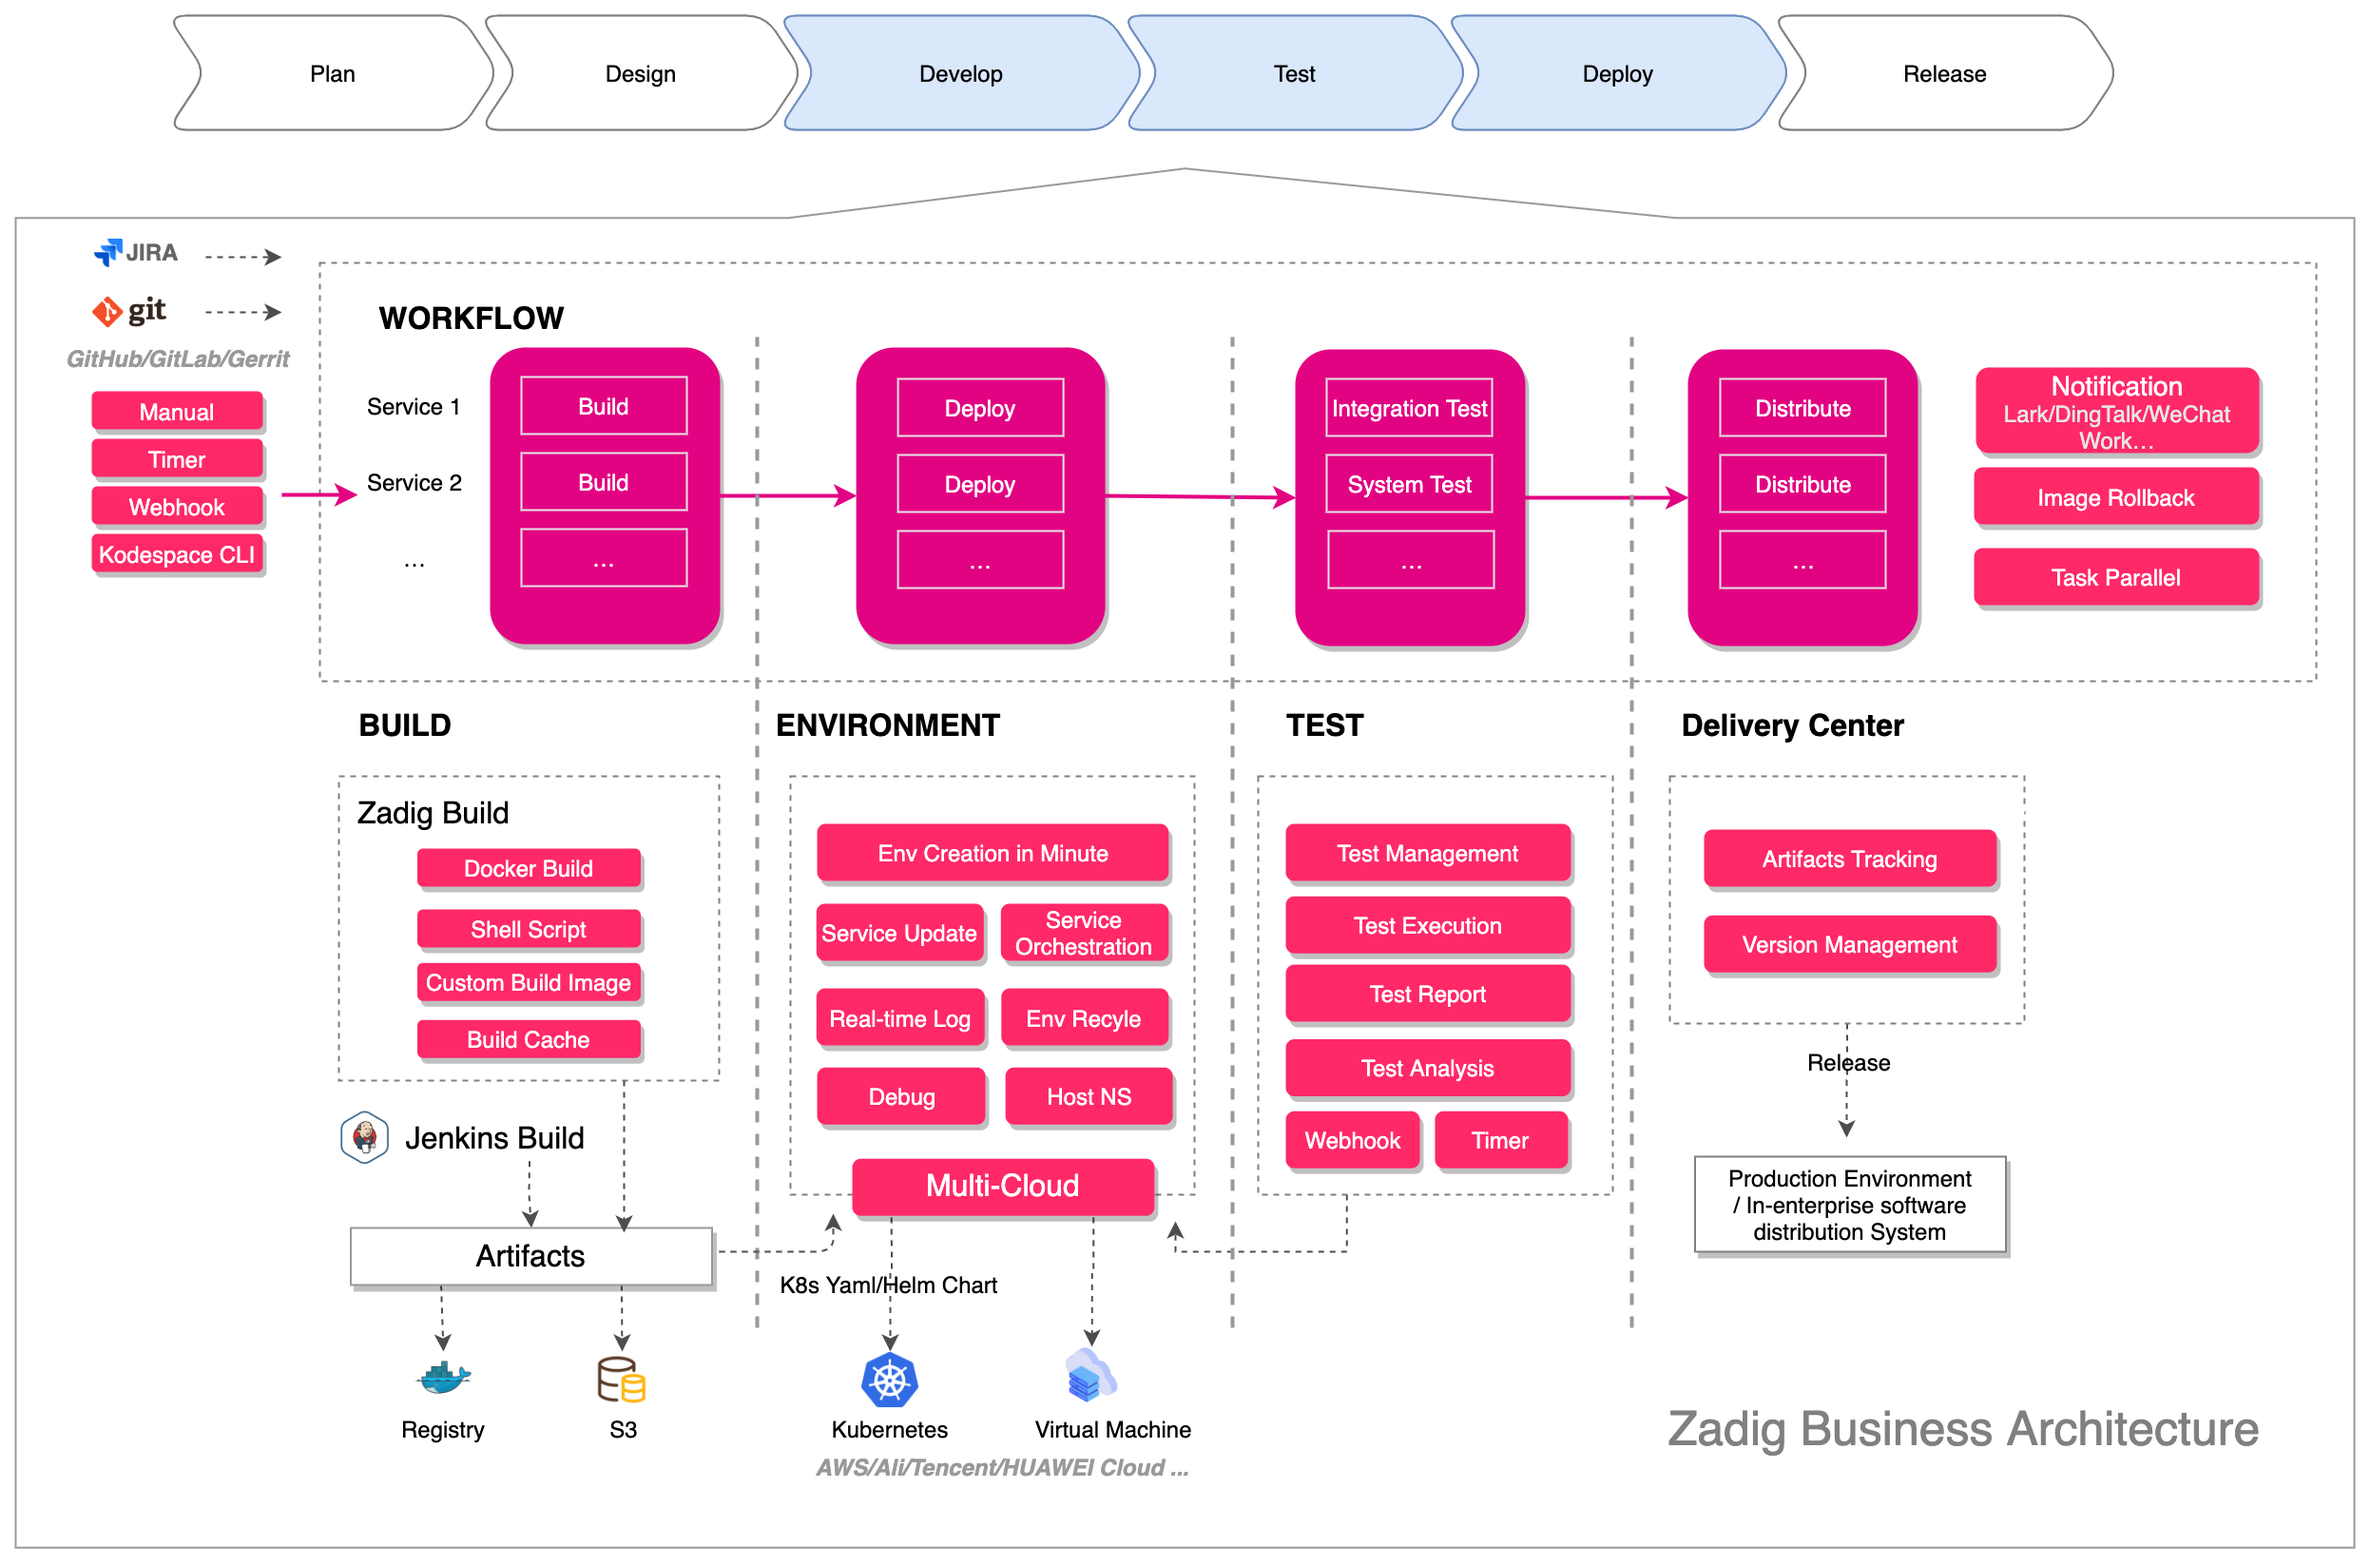
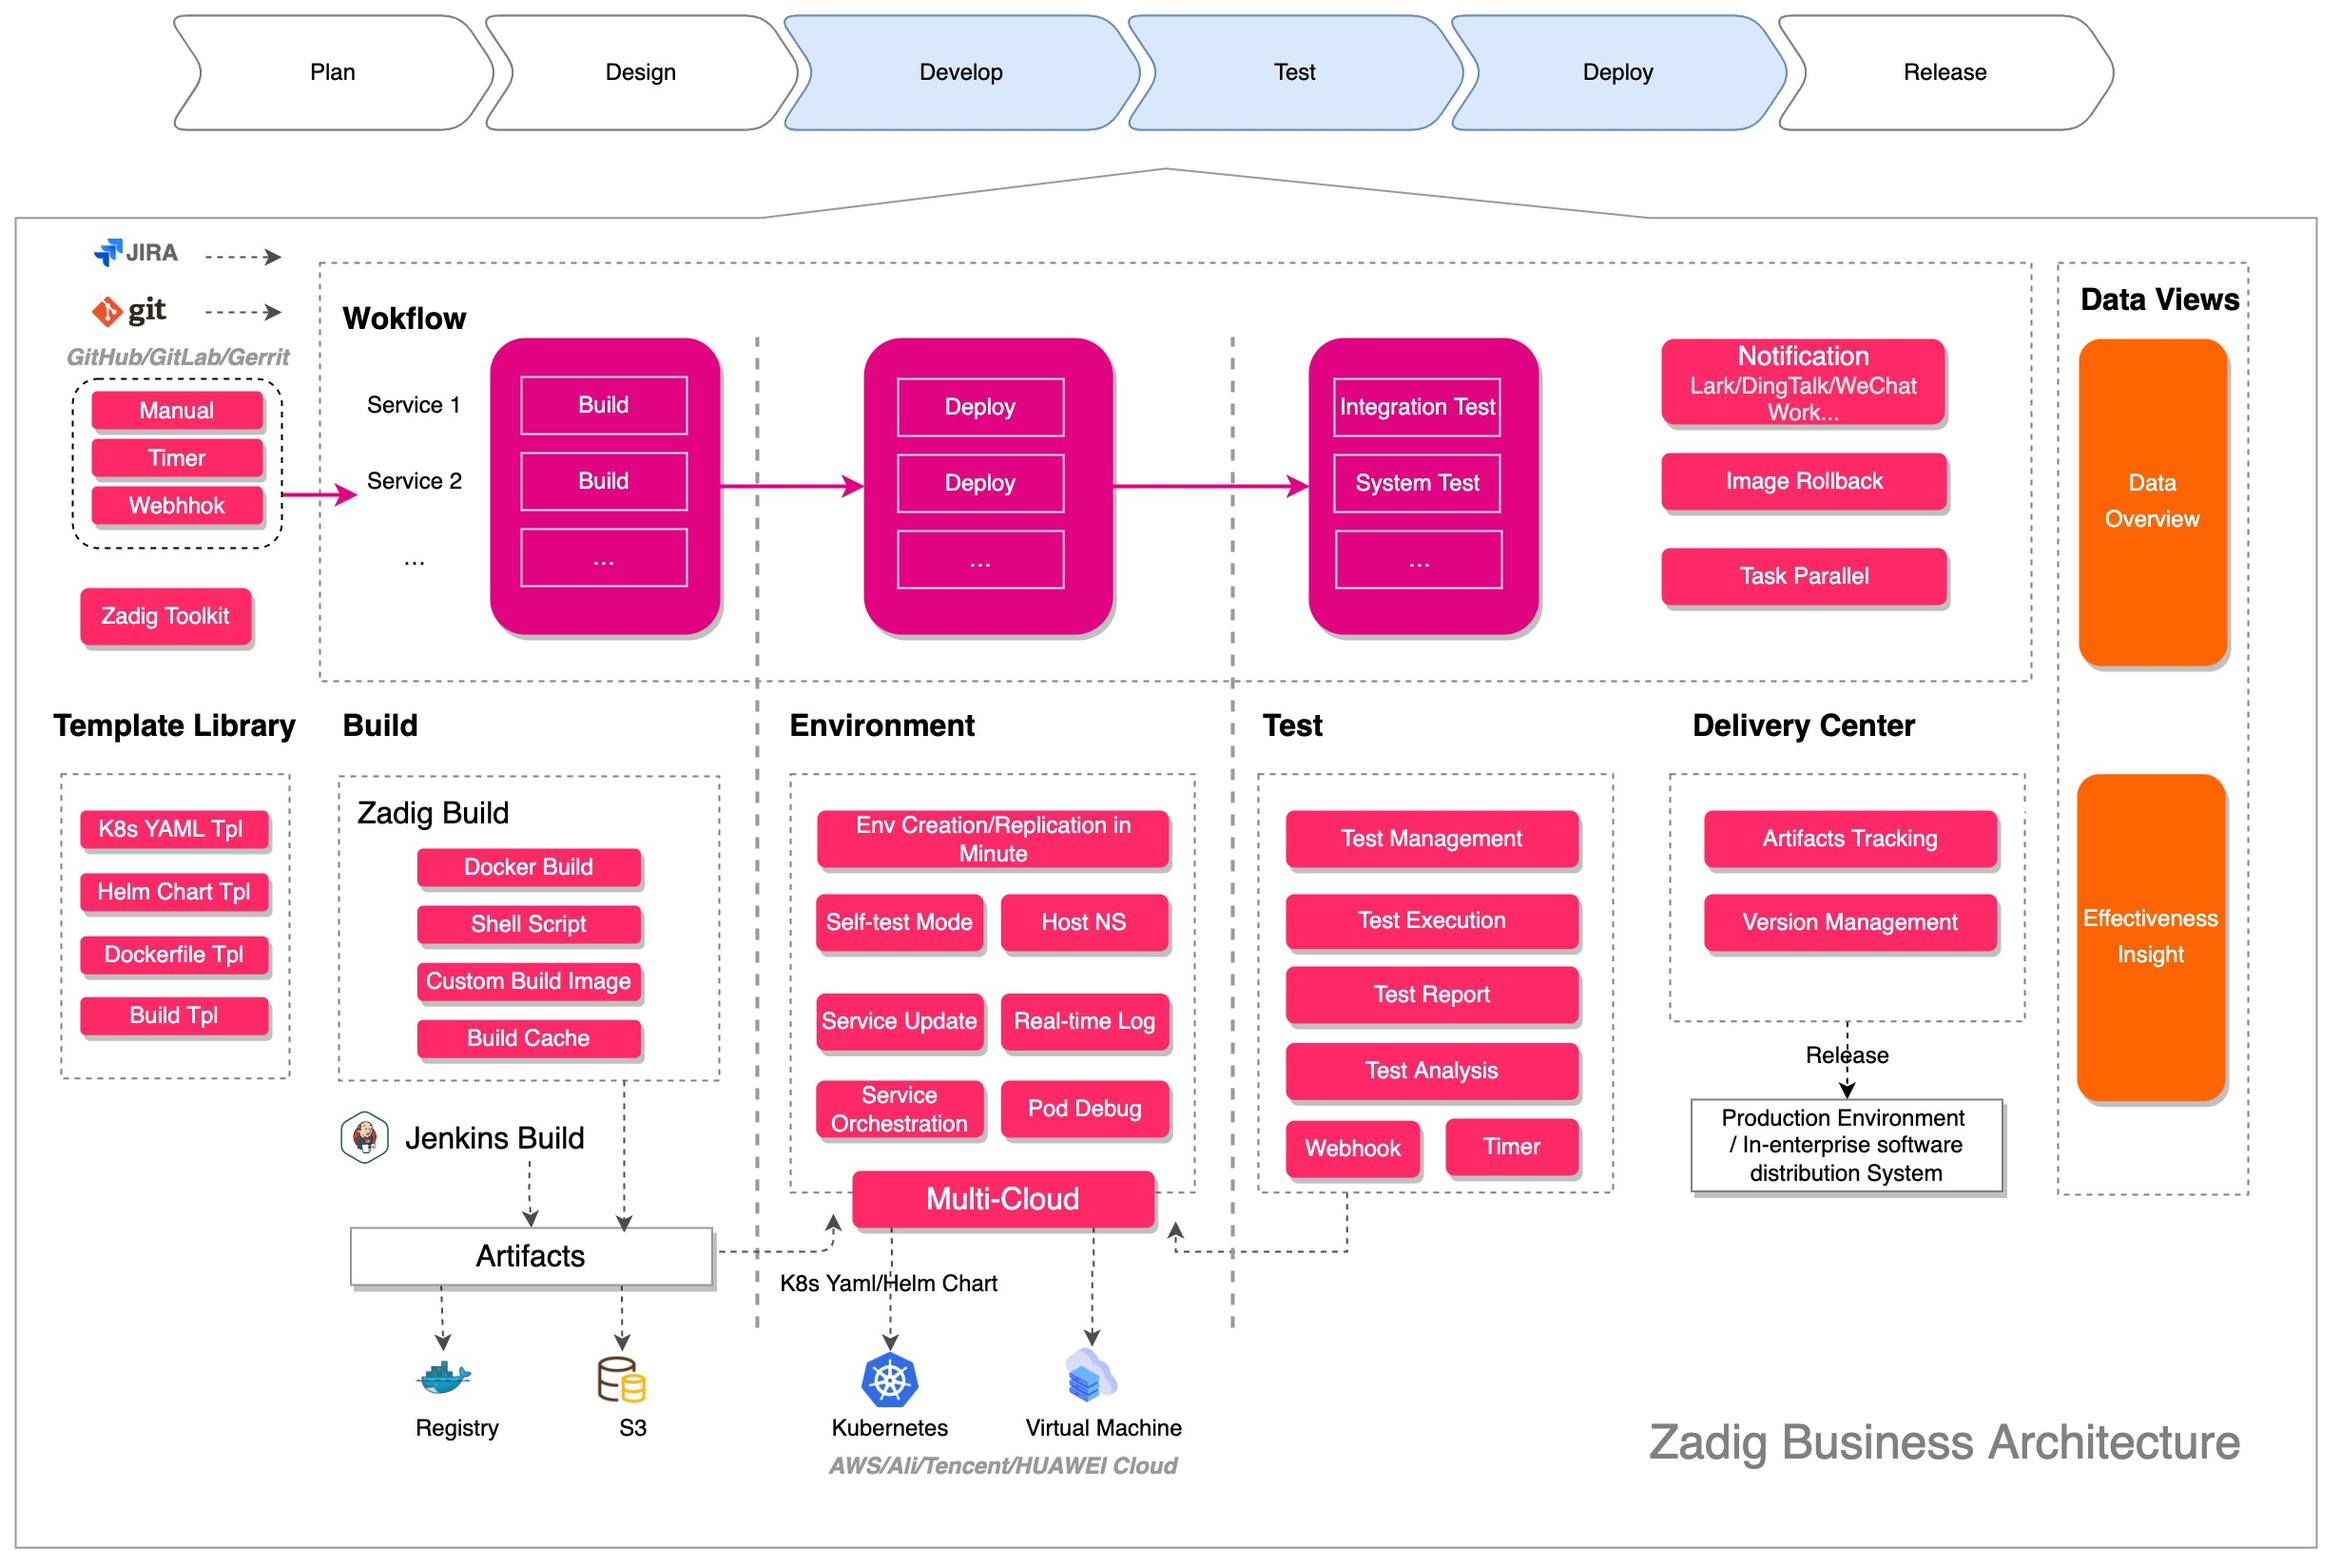
update Zadig product description & architecture image

diff --git a/README-zh-CN.md b/README-zh-CN.md
@@ -33,7 +33,7 @@
 
 ## Zadig 介绍
 
-Zadig 是一款面向开发者设计的云原生持续交付(Continuous Delivery)产品，具备高可用 CI/CD 能力，提供云原生运行环境，支持开发者本地联调、微服务并行构建和部署、集成测试等。Zadig 不改变现有流程，无缝集成 Github/Gitlab、Jenkins、多家云厂商等，运维成本极低。我们的目标是通过云原生技术的运用和工程产品赋能，打造极致、高效、愉悦的开发者工作体验，让工程师成为企业创新的核心引擎。
+Zadig 是 KodeRover 公司基于 Kubernetes 自主设计、研发的开源分布式持续交付 (Continuous Delivery) 产品，具备灵活易用的高并发工作流、面向开发者的云原生环境、高效协同的测试管理、强大免运维的模板库、客观精确的效能洞察以及云原生 IDE 插件等重要特性，为工程师提供统一的协作平面。Zadig 内置了 K8s YAML、Helm Chart、主机等复杂场景最佳实践，适用大规模微服务、高频高质量交付等场景。我们的目标是通过云原生技术的运用和工程产品赋能，打造极致、高效、愉悦的开发者工作体验，让工程师成为企业创新的核心引擎。
 
 
 我们的愿景：`工程师 + Zadig = 商业上的成功`
@@ -47,29 +47,34 @@ Zadig 是一款面向开发者设计的云原生持续交付(Continuous Delivery
 产品特性介绍：
 
 <details>
-  <summary><b>高并发的工作流</b></summary>
-  基于云原生设计，经过简单配置，系统自动生成工作流，实现多服务高并发执行构建部署测试任务，以解决微服务架构下带来的多服务构建部署效率低下问题。
+  <summary><b>灵活易用的高并发工作流</b></summary>
+  简单配置，可自动生成高并发工作流，多个微服务可并行构建、并行部署、并行测试，大大提升代码验证效率。自定义的工作流步骤，配合人工审核，灵活且可控的保障业务交付质量。
   </details>
 
 <details>
-  <summary><b>以服务为核心的集成环境</b></summary>
-  一套服务配置，分钟级创建多套数据隔离的测试环境。为开发者进行日常调试、为测试人员做集成测试、为产品经理对外 Demo 提供强力支撑。
-
-  对于现有的环境无需担心迁移成本，一键托管，轻松浏览、调试环境中的所有服务。
+  <summary><b>面向开发者的云原生环境</b></summary>
+  分钟级创建或复制一套完整的隔离环境，应对频繁的业务变更和产品迭代。基于全量基准环境，快速为开发者提供一套独立的自测环境。一键托管集群资源即可轻松调试已有服务，验证业务代码。
   </details>
 
 <details>
-  <summary><b>无侵入的自动化测试</b></summary>
-  便捷且无侵入的对接已有自动化测试框架，通过 GitHub/GitLab Webhook 自动构建、部署及测试。
-
-  通过办公通讯机器人为开发者提供第一时间质量反馈，精准高效。有效落地“测试左移”工程实践，让测试价值得到体现。
+  <summary><b>高效协同的测试管理</b></summary>
+  便捷对接 Jmeter、Pytest 等主流测试框架，跨项目管理和沉淀 UI、API、E2E 测试用例资产。通过工作流，向开发者提供前置测试验证能力。通过持续测试和质量分析，充分释放测试价值。
   </details>
 
   <details>
-  <summary><b>开发本地联调 CLI/IDE Plugin 插件</b></summary>
-  开发本地编辑完代码，一键进行本地代码构建，部署到联调环境，无需再陷入复杂且繁琐的工作流程。解放工程师双手，去创造更多产品价值。
+  <summary><b>强大免运维的模板库</b></summary>
+  跨项目共享 K8s YAML 模版、Helm Chart 模版、构建模版等，实现配置的统一化管理。基于一套模板可创建数百微服务，开发工程师少量配置可自助使用，大幅降低运维管理负担。
   </details>
 
+  <details>
+  <summary><b>客观精确的效能洞察</b></summary>
+  全面了解系统运行状态，包括集群、项目、环境、工作流，关键过程通过率等数据概览。提供项目维度的构建、测试、部署等客观的效能度量数据，精准分析研发效能短板，促进稳步提升。
+  </details>
+
+  <details>
+  <summary><b>云原生 IDE 插件</b></summary>
+  开发者无需平台切换，在 VScode IDE 中即可获得 Zadig 产品核心能力。编写代码后，无需打包镜像，即可一键热部署到自测环境，快速完成自测、联调和集成验证，开发效率倍增。
+  </details>
 
 ## 快速上手
 
